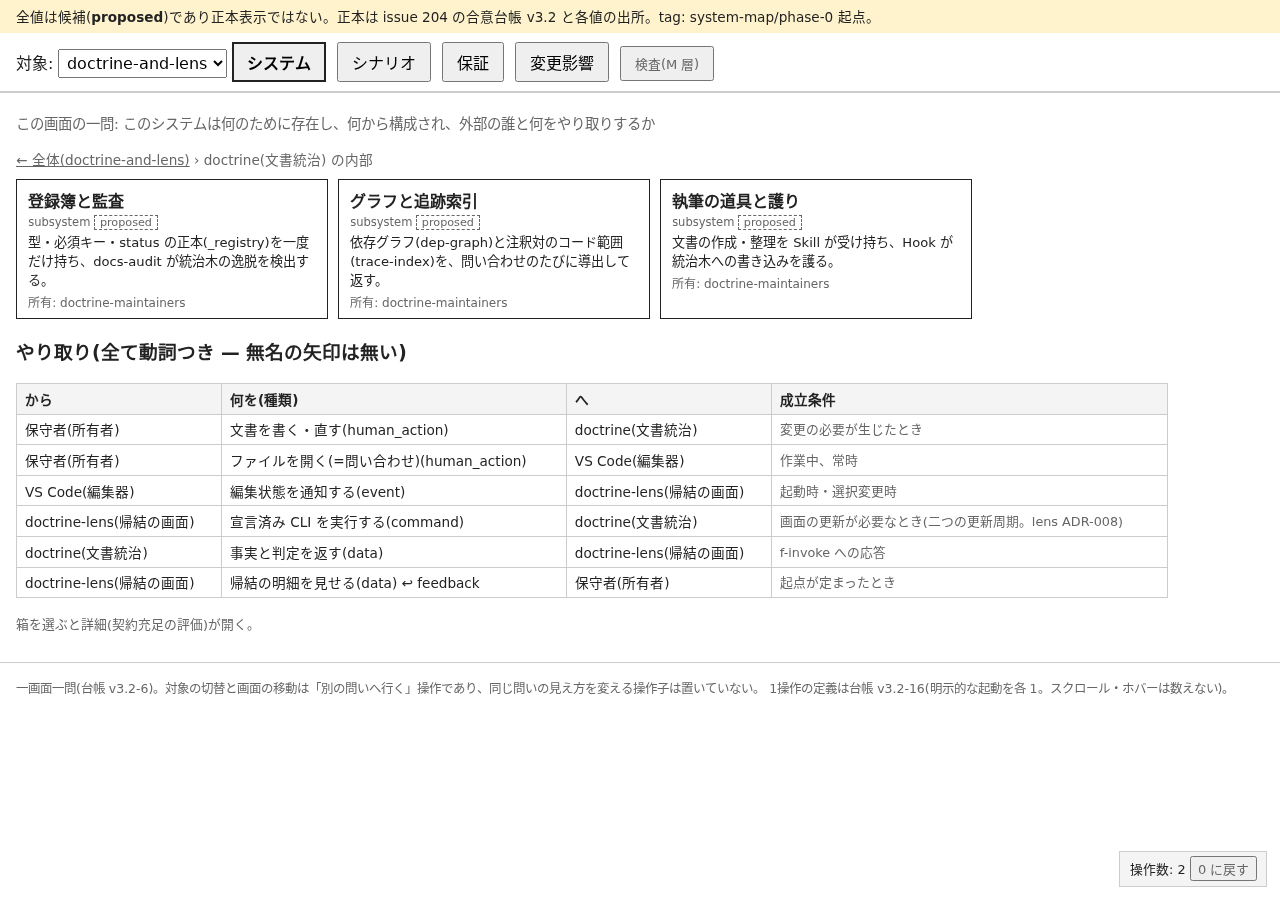
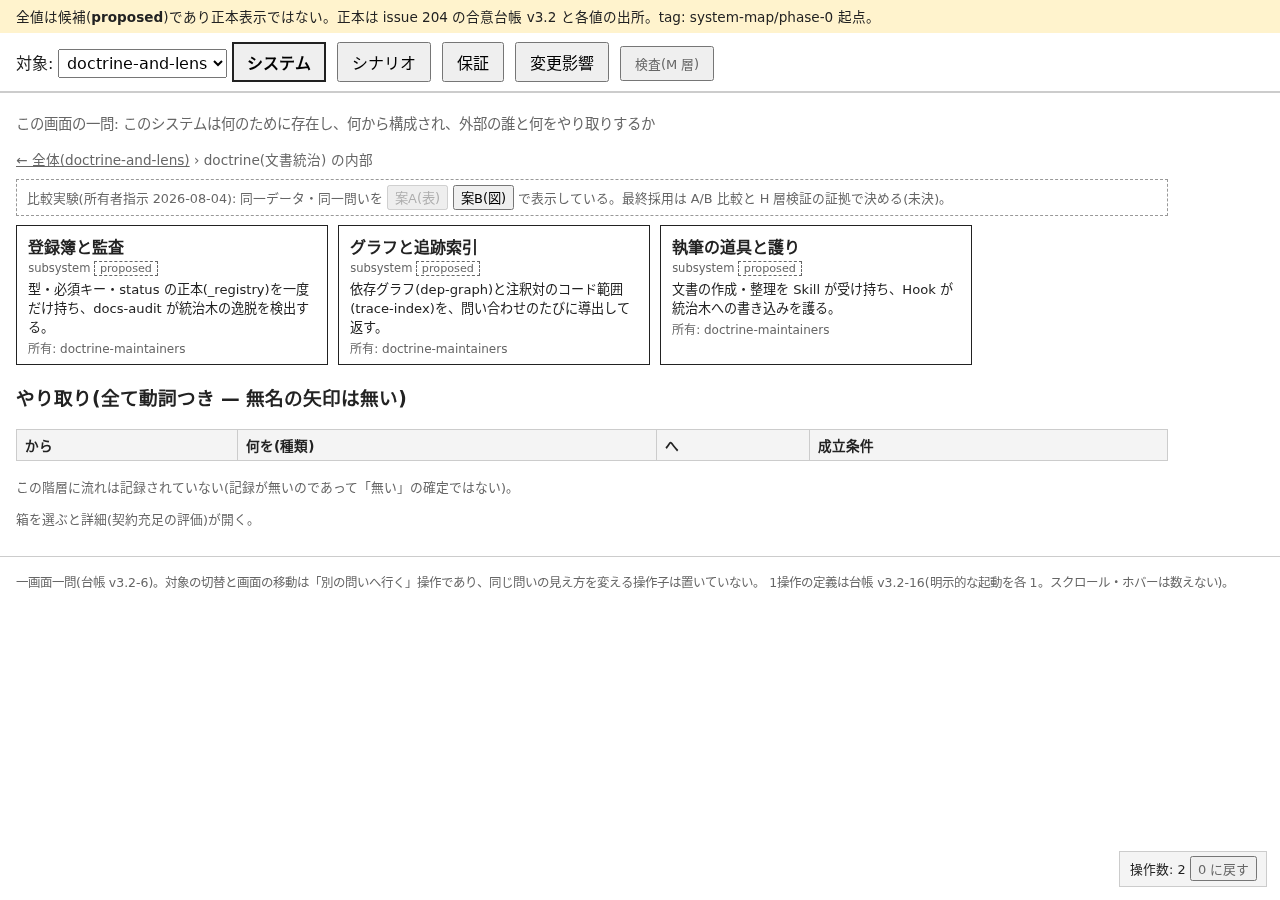
静止画を撮り直す(案B 3枚を追加、計14枚)

diff --git a/research/system-map/prototype/shots/README.md b/research/system-map/prototype/shots/README.md
@@ -1,6 +1,6 @@
 # 静止画(所有者の UIUX 確認用)
 
-撮影時点: commit `cd5dc40`(experiment/system-map)・2026-08-04。
+撮影時点: commit `03d4a8e`(experiment/system-map)・2026-08-04。
 **静止画は撮った時点の木でしか正しくない。** 模型や画面を変えたら撮り直す(build.mjs → shoot.mjs)。
 
 - `01-system-t1.png` — 対象1(Doctrine+Lens)システム画面 — 境界の箱とやり取りの表
@@ -14,3 +14,6 @@
 - `09-assurance-t3.png` — 対象3 保証画面 — 順序保証の unknown(負の出所2件)
 - `10-impact.png` — 変更影響画面 — 答えの正本は既存 Lens と明記(混ぜない)
 - `11-inspect.png` — 検査画面 — M-13/M-14 の判定と全要素の操作数表
+- `12-system-b-t1.png` — 案B: 対象1 構成図 — 層は Flow 方向から導出、全辺ラベル、状態章つきの箱
+- `13-system-b-t2.png` — 案B: 対象2 構成図(人・運用・外部系)
+- `14-system-b-t3.png` — 案B: 対象3 構成図(Celery)
